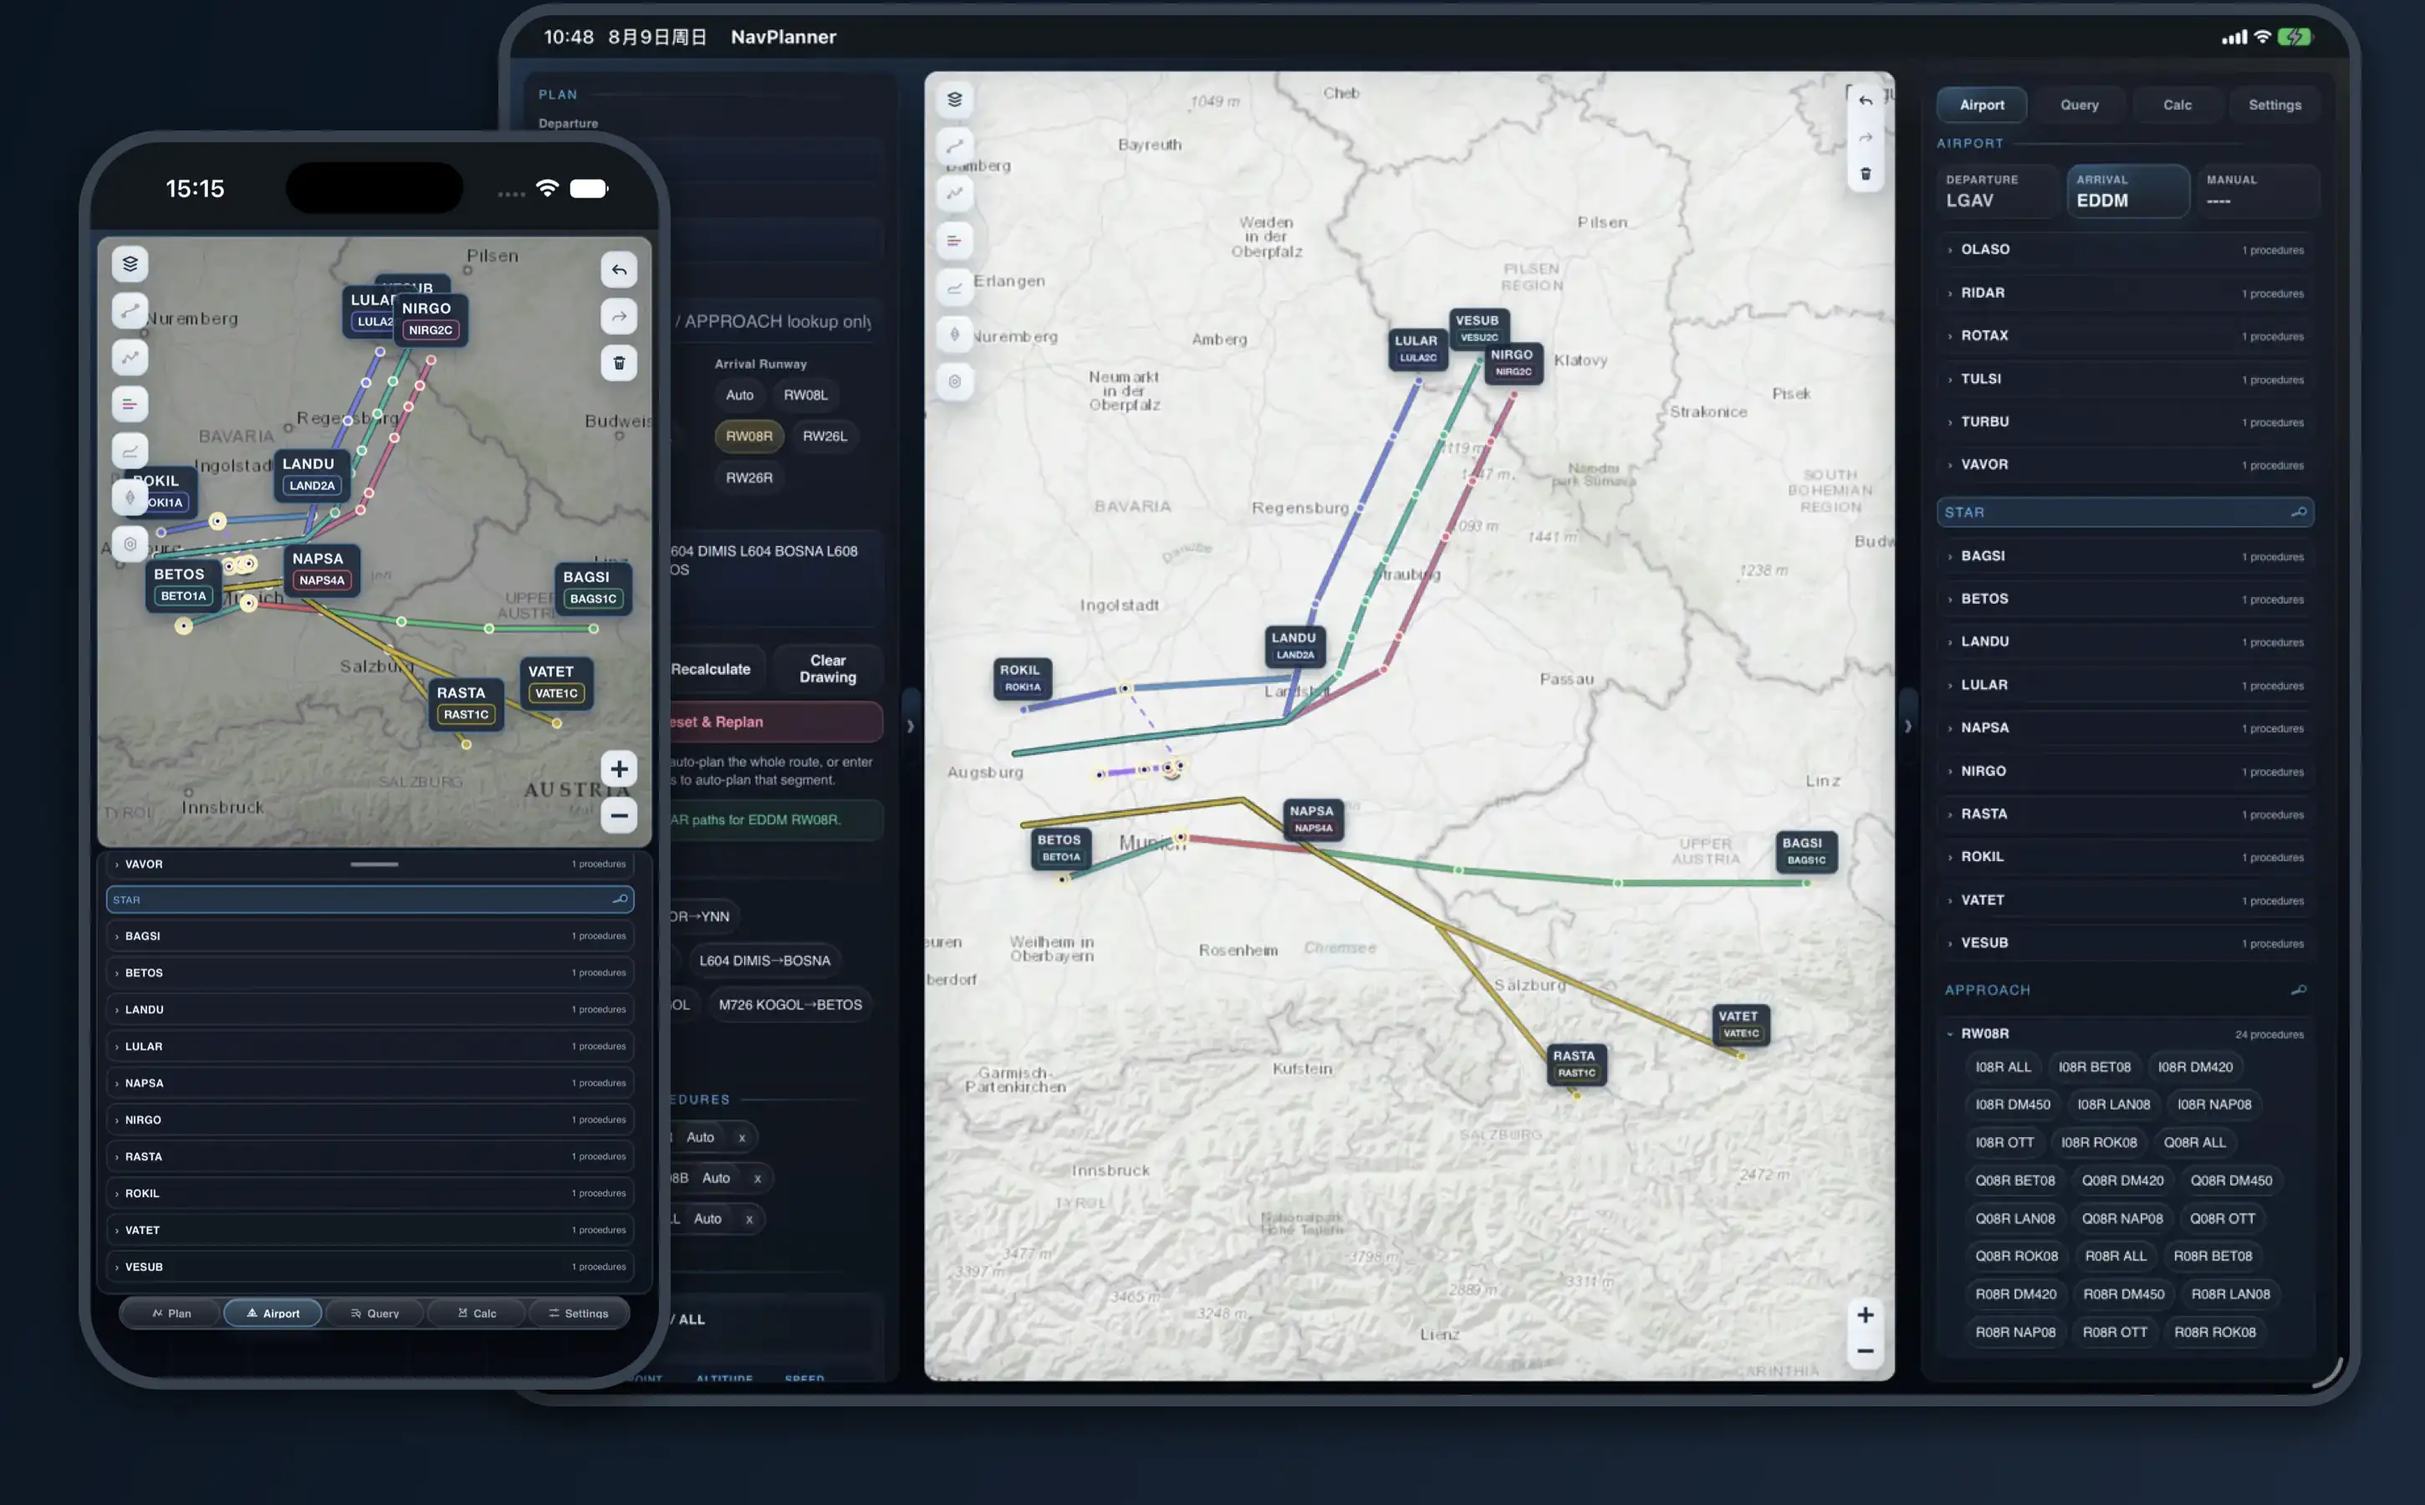
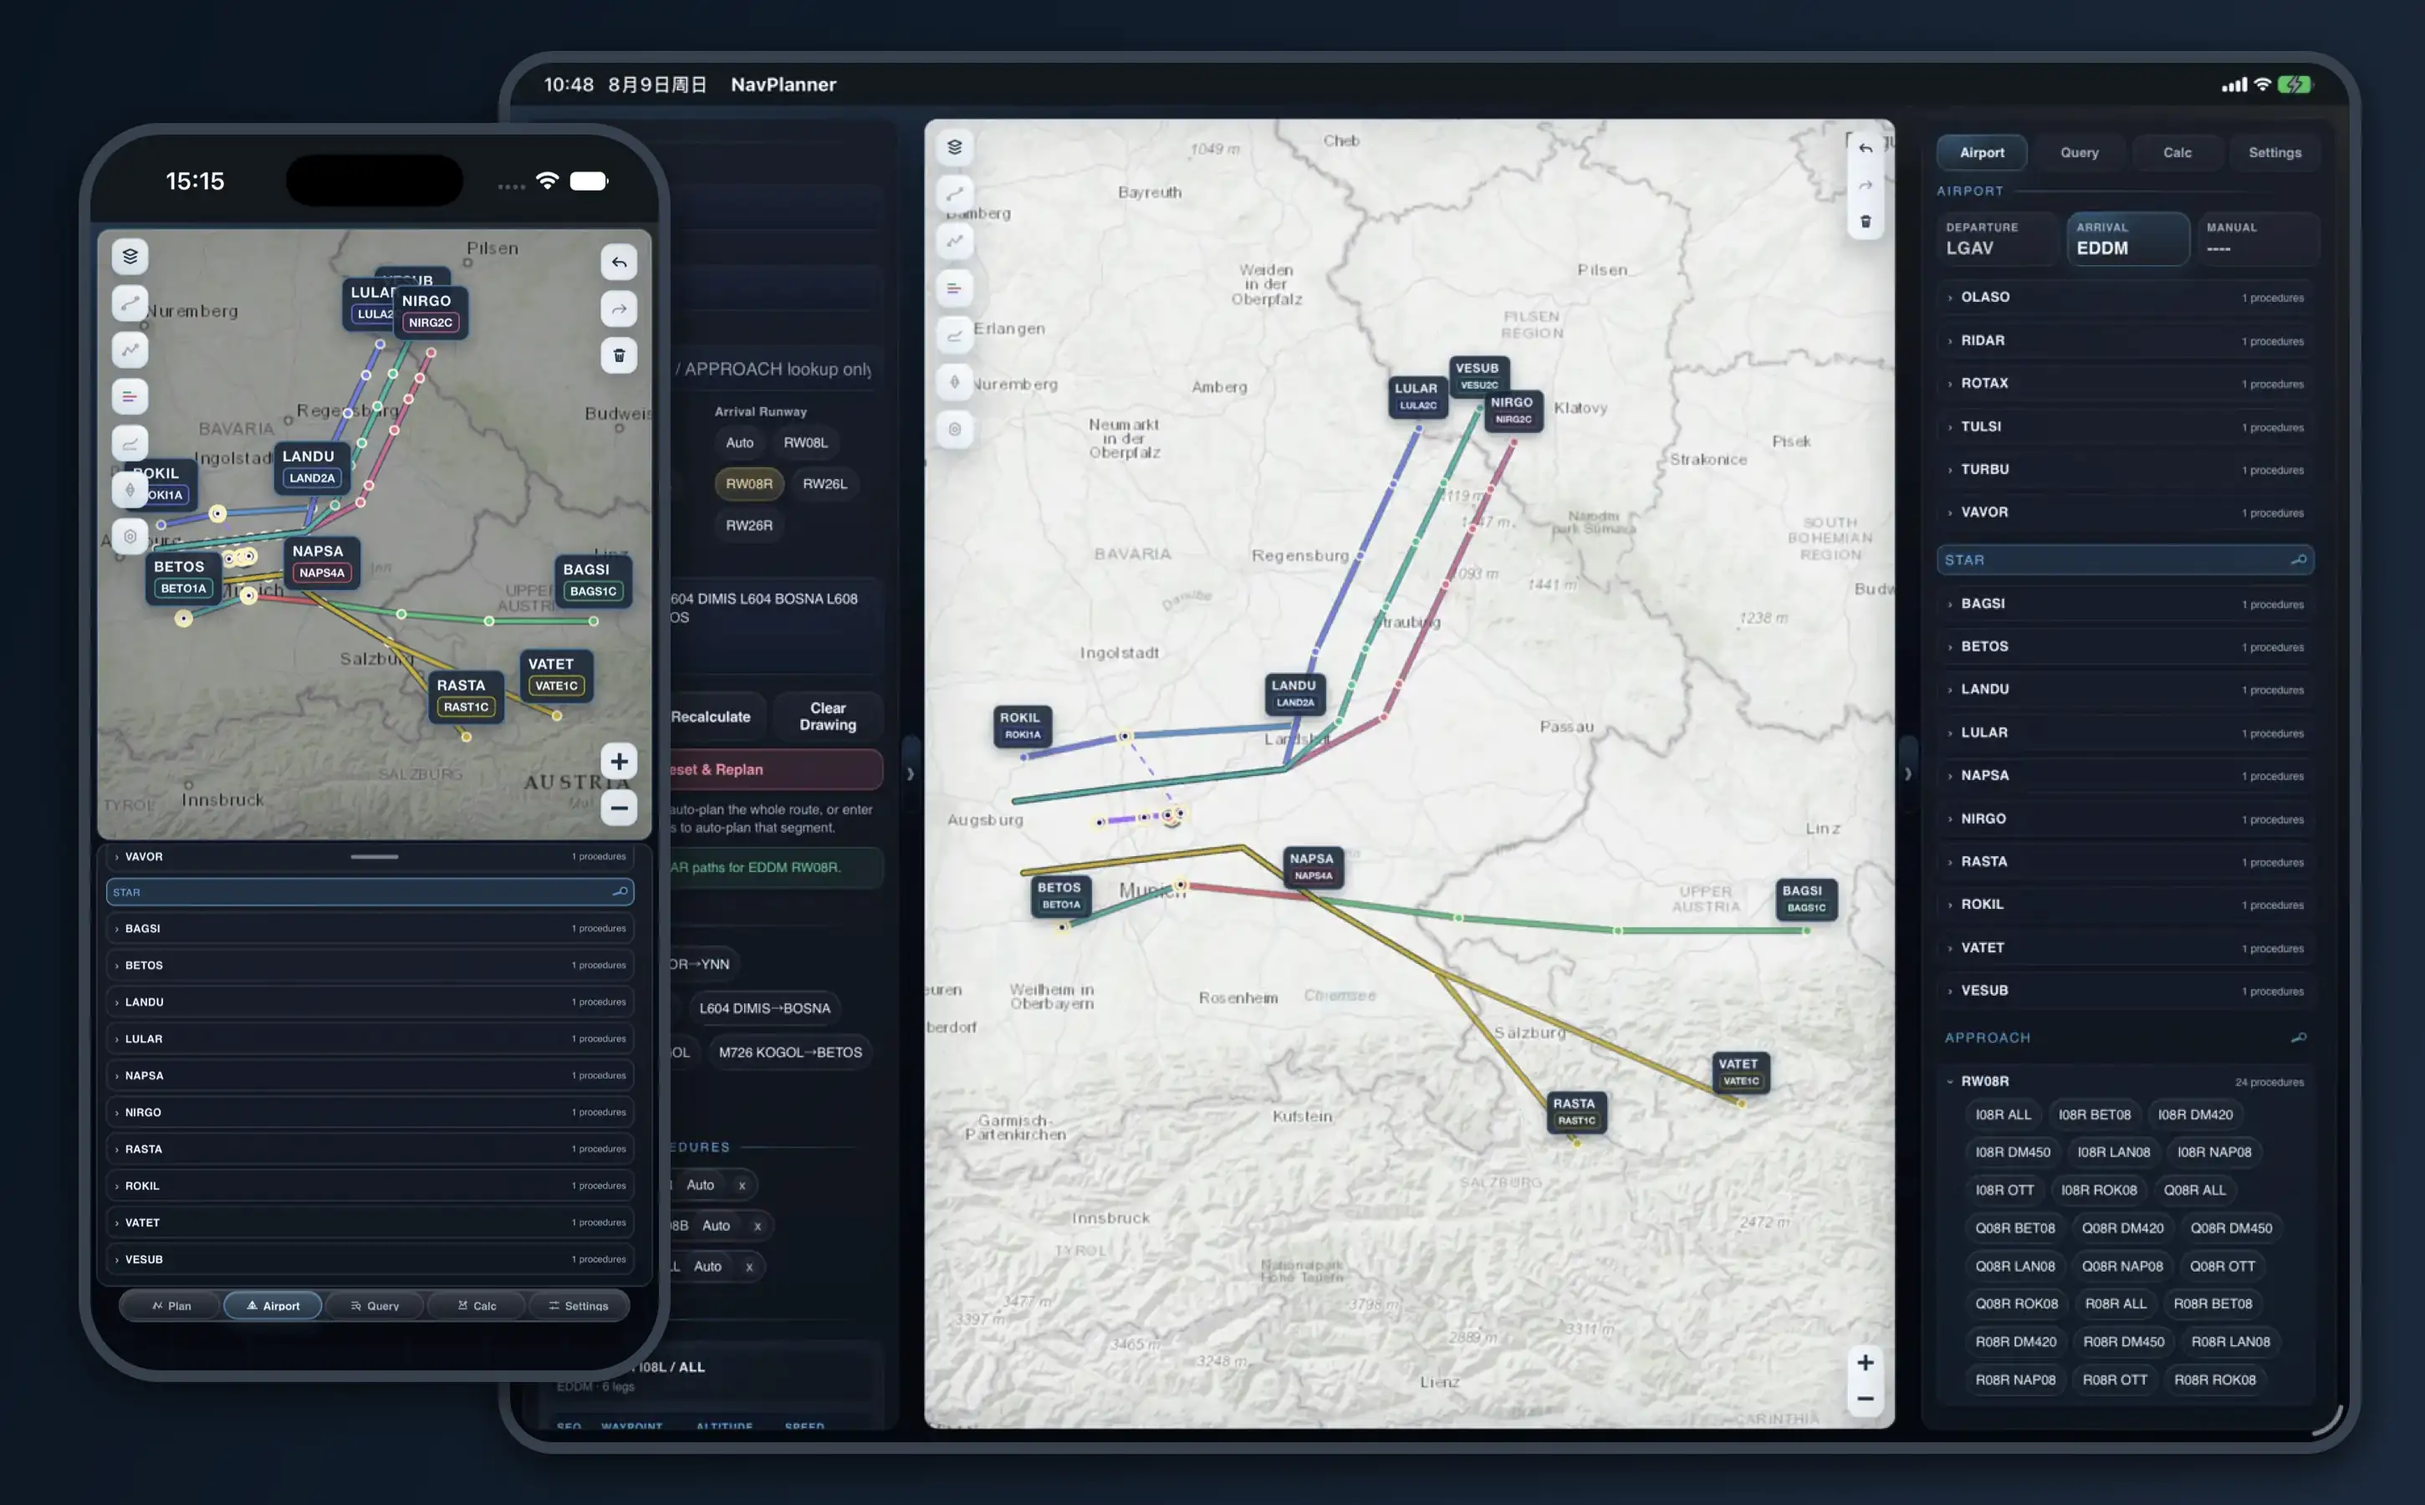
docs: update hero pic

diff --git a/Tools/ReadmeScreenshots/compose_readme_hero.swift b/Tools/ReadmeScreenshots/compose_readme_hero.swift
@@ -57,16 +57,32 @@ func drawScreenshot(_ image: NSImage, in rect: NSRect, cornerRadius: CGFloat, sh
     NSGraphicsContext.restoreGraphicsState()
 }
 
-// iPad 横屏作为工作台主体，iPhone 竖屏在左前方；日夜主题分别使用对应截图和背景。
+// iPad 横屏作为工作台主体，iPhone 竖屏在左前方；两台设备都在画布中垂直居中。
+// drawScreenshot 会向截图外扩 7pt 白色设备框，因此居中截图矩形也会让最终上下纯色留白严格相等。
+let padSize = NSSize(width: 1100, height: 825)
+let phoneSize = NSSize(width: 340, height: 739)
+let padRect = NSRect(
+    x: 305,
+    y: (canvasSize.height - padSize.height) / 2,
+    width: padSize.width,
+    height: padSize.height
+)
+let phoneRect = NSRect(
+    x: 54,
+    y: (canvasSize.height - phoneSize.height) / 2,
+    width: phoneSize.width,
+    height: phoneSize.height
+)
+
 drawScreenshot(
     padImage,
-    in: NSRect(x: 305, y: 66, width: 1100, height: 825),
+    in: padRect,
     cornerRadius: 26,
     shadowRadius: 24
 )
 drawScreenshot(
     phoneImage,
-    in: NSRect(x: 54, y: 76, width: 340, height: 739),
+    in: phoneRect,
     cornerRadius: 42,
     shadowRadius: 28
 )

diff --git a/Tools/ReadmeScreenshots/README.md b/Tools/ReadmeScreenshots/README.md
@@ -31,4 +31,4 @@ NAVPLANNER_CAPTURE_FILTER='en-day-04-fr24-iphone' \
   Tools/ReadmeScreenshots/capture_readme_screenshots.sh
 ```
 
-脚本将原始 PNG、每次启动日志、完整 Debug JSON manifest，以及直接由当前 40 张 WebP 重建的 8 张联系表写入已被 `.gitignore` 忽略的 `codex/ux-tests/2026-08-09-lgav-eddm/`；公开产物写入 `Media/workflows/`。即使只定向重拍一张图，只要 40 张公开图仍齐全，脚本也会刷新全部联系表，避免本地视觉证据滞后。完整批次最后会分别用各语言亮色 / 暗色 STAR 场景组合 iPhone / iPad 首页 hero，README 通过 `<picture>` 跟随系统主题切换。每张 WebP 会自动缩放和逐级调质，超过 150 kB 时任务失败。STAR 截图还会断言程序总览已激活且 `clippedPoints: 0`，因此路线/程序缩放不能过大、过小或越出画面；Calculate 与 FR24 场景会比较 SVG `viewBox` 和实际 client 尺寸的横纵缩放比，非等比轴或文字压缩会直接让任务失败。
+脚本将原始 PNG、每次启动日志、完整 Debug JSON manifest，以及直接由当前 40 张 WebP 重建的 8 张联系表写入已被 `.gitignore` 忽略的 `codex/ux-tests/2026-08-09-lgav-eddm/`；公开产物写入 `Media/workflows/`。即使只定向重拍一张图，只要 40 张公开图仍齐全，脚本也会刷新全部联系表，避免本地视觉证据滞后。完整批次最后会分别用各语言亮色 / 暗色 STAR 场景组合 iPhone / iPad 首页 hero，README 通过 `<picture>` 跟随系统主题切换。Hero 合成器会把 iPhone 与 iPad 截图矩形分别垂直居中；1450×900pt 画布上的 iPad 连同外扩 7pt 设备框后，上下纯色留白均为 30.5pt（最终 2× WebP 各 61px），禁止顶部贴边、底部留出不对称大空白。每张 WebP 会自动缩放和逐级调质，超过 150 kB 时任务失败。STAR 截图还会断言程序总览已激活且 `clippedPoints: 0`，因此路线/程序缩放不能过大、过小或越出画面；Calculate 与 FR24 场景会比较 SVG `viewBox` 和实际 client 尺寸的横纵缩放比，非等比轴或文字压缩会直接让任务失败。
